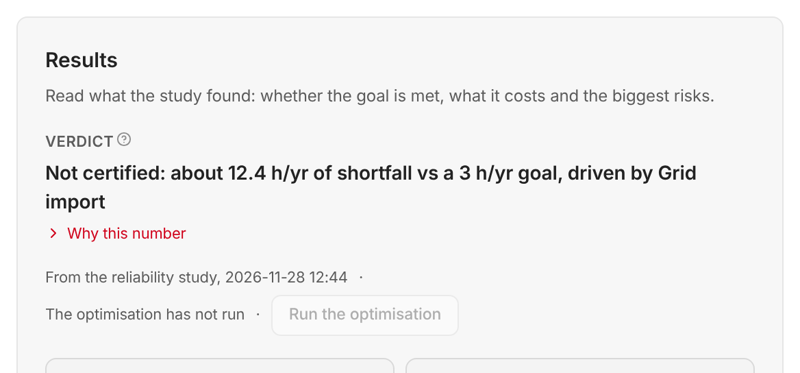
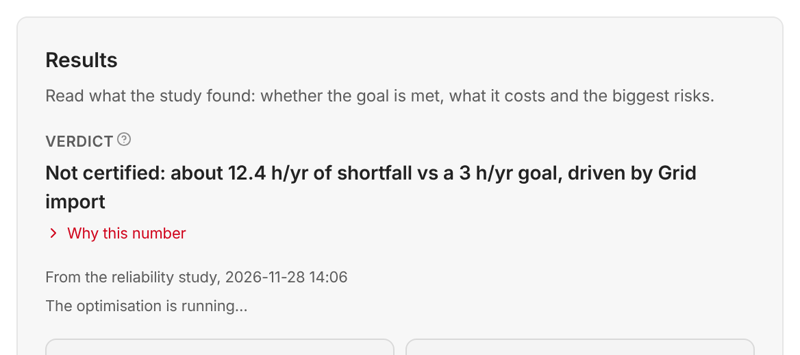
te2e 18 UI: while a run is going the missing solve's line says so and offers nothing; it sits on its own row, so no line starts or ends in a dot
Claude-Session: https://claude.ai/code/session_01G7qCujdh3GiGjwFZGqwS6E

diff --git a/pypsa-gui/frontend/src/components/SourceRunLine.tsx b/pypsa-gui/frontend/src/components/SourceRunLine.tsx
@@ -6,6 +6,7 @@
  * improvement 2, issue 06, #1618-01): which run the figures above come from, when it ran, whether
  * it is out of date, and, when the other mode's run is missing, that in words with one link.
  */
+import type { ReactNode } from 'react'
 import { Btn } from './PageKit'
 import { StatePill } from './ResultState'
 
@@ -39,7 +40,14 @@ export interface SourceRunLineProps {
   outOfDate?: boolean
   /** The other run, when it has not run: named in words, with one link to it ("›"), or, `kind: 'run'`, the
    *  button that runs it in place (no "›"; `disabled` while a run is queued or going: never a second run). */
-  missing?: { run: SourceRun; action?: { label: string; onClick: () => void; kind?: 'link' | 'run'; disabled?: boolean } }
+  missing?: {
+    run: SourceRun
+    action?: { label: string; onClick: () => void; kind?: 'link' | 'run'; disabled?: boolean }
+    /** A run is queued or going (UX 34 on #2140): 'self' when it is this missing run, which then reads
+     *  "… is running…"; 'other' when another run is, and this one can run once it finishes. Either way
+     *  the line offers no action, never "has not run" beside a greyed button. */
+    busy?: 'self' | 'other'
+  }
   testId?: string
   /** Guided's words for the runs; Expert's by default. */
   mode?: 'guided' | 'expert'
@@ -52,14 +60,19 @@ export default function SourceRunLine({ source, at, outOfDate = false, missing, 
     <p className="flex flex-wrap items-center gap-x-2 gap-y-1 text-[11px] text-muted" data-testid={testId}>
       {source && <span data-testid={`${testId}-from`}>From {RUN_NAME[source]}{stamp ? `, ${stamp}` : ''}</span>}
       {source && outOfDate && <span data-testid={`${testId}-stale`}><StatePill state="stale" /></span>}
-      {/* The separator is its own flex item, so the gap sits evenly on both sides of it. */}
-      {source && missing && <span aria-hidden="true">·</span>}
       {missing && (
-        <span data-testid={`${testId}-missing`} className="inline-flex flex-wrap items-center gap-x-2">
-          <span>{RUN_NAME[missing.run].replace(/^t/, 'T')} has not run</span>
-          {missing.action && (
-            <>
-              <span aria-hidden="true">·</span>
+        // Its own row under the source run, and each "·" bound to the item after it, so no line starts or
+        // ends in a "·" when it wraps (UX 34 on #2140).
+        <span data-testid={`${testId}-missing`} className="inline-flex basis-full flex-wrap items-center gap-x-2">
+          <Sep show={false}>
+            {missing.busy === 'self' ? <span>{cap(RUN_NAME[missing.run])} is running…</span>
+              : <span>{cap(RUN_NAME[missing.run])} has not run</span>}
+          </Sep>
+          {missing.busy === 'other' && (
+            <Sep show>it can run when the current run finishes</Sep>
+          )}
+          {missing.action && missing.busy == null && (
+            <Sep show>
               {missing.action.kind === 'run' ? (
                 <Btn type="button" onClick={missing.action.onClick} disabled={missing.action.disabled}
                   data-testid={`${testId}-action`}>{missing.action.label}</Btn>
@@ -67,10 +80,22 @@ export default function SourceRunLine({ source, at, outOfDate = false, missing, 
                 <button type="button" onClick={missing.action.onClick} className="text-link hover:underline"
                   data-testid={`${testId}-action`}>{missing.action.label} ›</button>
               )}
-            </>
+            </Sep>
           )}
         </span>
       )}
     </p>
+  )
+}
+
+const cap = (words: string) => words.replace(/^t/, 'T')
+
+/** An item with the "·" before it, kept together on one line; the gap sits evenly on both sides of the dot. */
+function Sep({ show, children }: { show: boolean; children: ReactNode }) {
+  return (
+    <span className="inline-flex items-center gap-x-2 whitespace-nowrap">
+      {show && <span aria-hidden="true">·</span>}
+      {children}
+    </span>
   )
 }

diff --git a/pypsa-gui/frontend/src/pages/hubDesign/cards/ResultsCard.test.tsx b/pypsa-gui/frontend/src/pages/hubDesign/cards/ResultsCard.test.tsx
@@ -18,8 +18,10 @@ import { HUB_DESIGN_INITIAL, useHubDesignStore } from '../hubDesignStore'
 import { DC_TEMPLATE, REPORT, SITE_TEMPLATE, review } from '../testFixtures'
 import { EDITED_TEXT, FRESHNESS_UNKNOWN_TEXT, ResultsCard } from './ResultsCard'
 import { useProjectFlow } from '../../../hooks/useProjectFlow'
+import { useProjectRun } from '../../../hooks/useProjectRun'
 
 vi.mock('../../../hooks/useProjectFlow', () => ({ useProjectFlow: vi.fn() }))
+vi.mock('../../../hooks/useProjectRun', () => ({ useProjectRun: vi.fn(() => null) }))
 
 function flowWith(by: Record<string, string | null>, req = { optimisation: true, study: true, loadflow: false }) {
   vi.mocked(useProjectFlow).mockReturnValue({ flow: { deferred: false, run_request: req,
@@ -503,6 +505,30 @@ describe('ResultsCard source run (control-strategy 06)', () => {
       .toBe('The optimisation has not run·Run the optimisation'))
     fireEvent.click(within(line).getByTestId('hub-results-source-action'))
     expect(run).toHaveBeenCalledTimes(1)
+  })
+
+  it('while the optimisation runs, says so and offers nothing, never "has not run" beside a greyed button (UX 34)', async () => {
+    vi.mocked(simulationApi.getStatus).mockResolvedValue(
+      { status: 'idle', objective: null, solve_time: null, dispatch: 'none', solved_at: null } as never)
+    vi.mocked(useProjectRun).mockReturnValue({ name: 'Optimisation', stage: 'Solving', steps: '', startedAt: null, jobId: 'j1', queued: false } as never)
+    mount()
+    const line = await screen.findByTestId('hub-results-source')
+    await waitFor(() => expect(within(line).getByTestId('hub-results-source-missing').textContent)
+      .toBe('The optimisation is running…'))
+    expect(within(line).queryByTestId('hub-results-source-action')).toBeNull()
+    vi.mocked(useProjectRun).mockReturnValue(null)
+  })
+
+  it('while another run is going, the optimisation waits for it, with no button (UX 34)', async () => {
+    vi.mocked(simulationApi.getStatus).mockResolvedValue(
+      { status: 'idle', objective: null, solve_time: null, dispatch: 'none', solved_at: null } as never)
+    vi.mocked(useProjectRun).mockReturnValue({ name: 'Grid study', stage: 'Running', steps: '', startedAt: null, jobId: 'j2', queued: false } as never)
+    mount()
+    const line = await screen.findByTestId('hub-results-source')
+    await waitFor(() => expect(within(line).getByTestId('hub-results-source-missing').textContent)
+      .toBe('The optimisation has not run·it can run when the current run finishes'))
+    expect(within(line).queryByTestId('hub-results-source-action')).toBeNull()
+    vi.mocked(useProjectRun).mockReturnValue(null)
   })
 
   it('with the study and a solve, names the study only', async () => {

diff --git a/pypsa-gui/frontend/src/pages/hubDesign/cards/ResultsCard.tsx b/pypsa-gui/frontend/src/pages/hubDesign/cards/ResultsCard.tsx
@@ -33,6 +33,7 @@ import DownloadReport from '../DownloadReport'
 import SourceRunLine from '../../../components/SourceRunLine'
 import { useDispatchRun } from '../../../hooks/useDispatchRun'
 import { useProjectRun } from '../../../hooks/useProjectRun'
+import { RUN_NAME } from '../../../utils/runStatus'
 import { money, unitPrice } from '../../../utils/money'
 import GridExtensionCard from '../../results/GridExtensionCard'
 import { FrontTile } from './FrontTile'
@@ -103,7 +104,10 @@ export function ResultsCard() {
   // The dispatch solve, for the source-run line (control-strategy 06, improvement 2).
   const run = useDispatchRun()
   const requestDispatchSolve = useUIStore(s => s.requestDispatchSolve)
-  const runBusy = useProjectRun() != null
+  const projectRun = useProjectRun()
+  const runBusy = projectRun != null
+  // While a run is queued or going, the missing solve's line says so instead of offering it (UX 34 on #2140).
+  const solveBusy = projectRun == null ? undefined : projectRun.name === RUN_NAME.solve ? 'self' as const : 'other' as const
   // A unit whose loss causes no shortfall is not a risk (UX S6, G3): it is
   // named once under the list, never ranked in it.
   const rows = report ? fmeaTopRows(report) : []
@@ -255,7 +259,7 @@ export function ResultsCard() {
       {/* Which run the verdict and figures come from; the dispatch solve offered when it has not run. */}
       <SourceRunLine testId="hub-results-source" mode="guided" source="study" at={study?.finished_at ?? null}
         outOfDate={stale || study?.edited_since_study === true}
-        missing={run && !run.solved ? { run: 'dispatch', action: { label: 'Run the optimisation', onClick: () => requestDispatchSolve(), kind: 'run', disabled: runBusy } } : undefined} />
+        missing={run && !run.solved ? { run: 'dispatch', action: { label: 'Run the optimisation', onClick: () => requestDispatchSolve(), kind: 'run', disabled: runBusy }, busy: solveBusy } : undefined} />
 
       {/* An edit since the study makes the study's figures out of date too: the edited banner is their
           mark, and the headline's mixed-source line and chart then say so (review P1, GK B G1). */}

diff --git a/pypsa-gui/frontend/src/pages/results/SummaryTab.tsx b/pypsa-gui/frontend/src/pages/results/SummaryTab.tsx
@@ -44,6 +44,7 @@ import SourceRunLine from '../../components/SourceRunLine'
 import { useDispatchRun } from '../../hooks/useDispatchRun'
 import { useProjectFlow } from '../../hooks/useProjectFlow'
 import { useProjectRun } from '../../hooks/useProjectRun'
+import { RUN_NAME } from '../../utils/runStatus'
 import { openReliabilityGoal } from '../../layout/flowNavigation'
 import { studyHasResults } from '../hubDesign/flow'
 import { headline as studyHeadline } from '../hubDesign/headline'
@@ -188,7 +189,10 @@ export default function SummaryTab({ onOpenTab, onOpenGroup }: {
   const report = useHubReport(study, false)
   const studyKind = flow?.sections.find(sec => sec.section === 'results')?.freshness_by_kind?.study
   const requestDispatchSolve = useUIStore(st => st.requestDispatchSolve)
-  const runBusy = useProjectRun() != null
+  const projectRun = useProjectRun()
+  const runBusy = projectRun != null
+  // While a run is queued or going, the missing solve's line says so instead of offering it (UX 34 on #2140).
+  const solveBusy = projectRun == null ? undefined : projectRun.name === RUN_NAME.solve ? 'self' as const : 'other' as const
   const resultsOutOfDate = useResultsOutOfDate()
   const caps = capacityRows(stats as Record<string, unknown>[] | null | undefined, selectedPeriod)
   const ll = (lostLoad ?? null) as LostLoadPayload | null
@@ -204,7 +208,7 @@ export default function SummaryTab({ onOpenTab, onOpenGroup }: {
           <p className="text-[13px] font-semibold text-text" data-testid="summary-study-verdict">{studyHeadline(review, report)}</p>
           <SourceRunLine testId="summary-source" source="study" at={study?.finished_at ?? null}
             outOfDate={review.stale === true || study?.edited_since_study === true}
-            missing={{ run: 'dispatch', action: { label: 'Run the solve', onClick: () => requestDispatchSolve(), kind: 'run', disabled: runBusy } }} />
+            missing={{ run: 'dispatch', action: { label: 'Run the solve', onClick: () => requestDispatchSolve(), kind: 'run', disabled: runBusy }, busy: solveBusy }} />
         </div>
       )
     }

diff --git a/pypsa-gui/frontend/src/components/SourceRunLine.test.tsx b/pypsa-gui/frontend/src/components/SourceRunLine.test.tsx
@@ -27,7 +27,7 @@ describe('SourceRunLine (control-strategy 06, improvement 2)', () => {
     render(<SourceRunLine source="study" missing={{ run: 'dispatch', action: { label: 'Run the solve', onClick } }} />)
     expect(screen.getByTestId('source-run-missing').textContent).toBe('The dispatch solve has not run·Run the solve ›')
     // The "·" is its own flex item, so the gap is even on both sides (no literal space beside it), and so is the one before the link.
-    expect(screen.getByTestId('source-run').textContent).toBe('From the reliability study·The dispatch solve has not run·Run the solve ›')
+    expect(screen.getByTestId('source-run').textContent).toBe('From the reliability studyThe dispatch solve has not run·Run the solve ›')
     fireEvent.click(screen.getByTestId('source-run-action'))
     expect(onClick).toHaveBeenCalledTimes(1)
   })
@@ -48,5 +48,16 @@ describe('a run action (template-e2e 18)', () => {
     expect(btn.disabled).toBe(true)
     fireEvent.click(btn)
     expect(onClick).not.toHaveBeenCalled()
+  })
+
+  it('puts the missing run on its own row and binds each "·" to the item after it, so no line starts or ends in one (UX 34)', () => {
+    render(<SourceRunLine source="study" missing={{ run: 'dispatch', action: { label: 'Run the solve', onClick: vi.fn(), kind: 'run' } }} />)
+    for (const dot of screen.getByTestId('source-run').querySelectorAll('[aria-hidden="true"]')) {
+      expect(dot.nextElementSibling).not.toBeNull()
+      expect(dot.parentElement?.className).toContain('whitespace-nowrap')
+      expect(dot.previousElementSibling).toBeNull()
+      expect(dot.parentElement?.previousElementSibling).not.toBeNull()
+    }
+    expect(screen.getByTestId('source-run-missing').className).toContain('basis-full')
   })
 })
